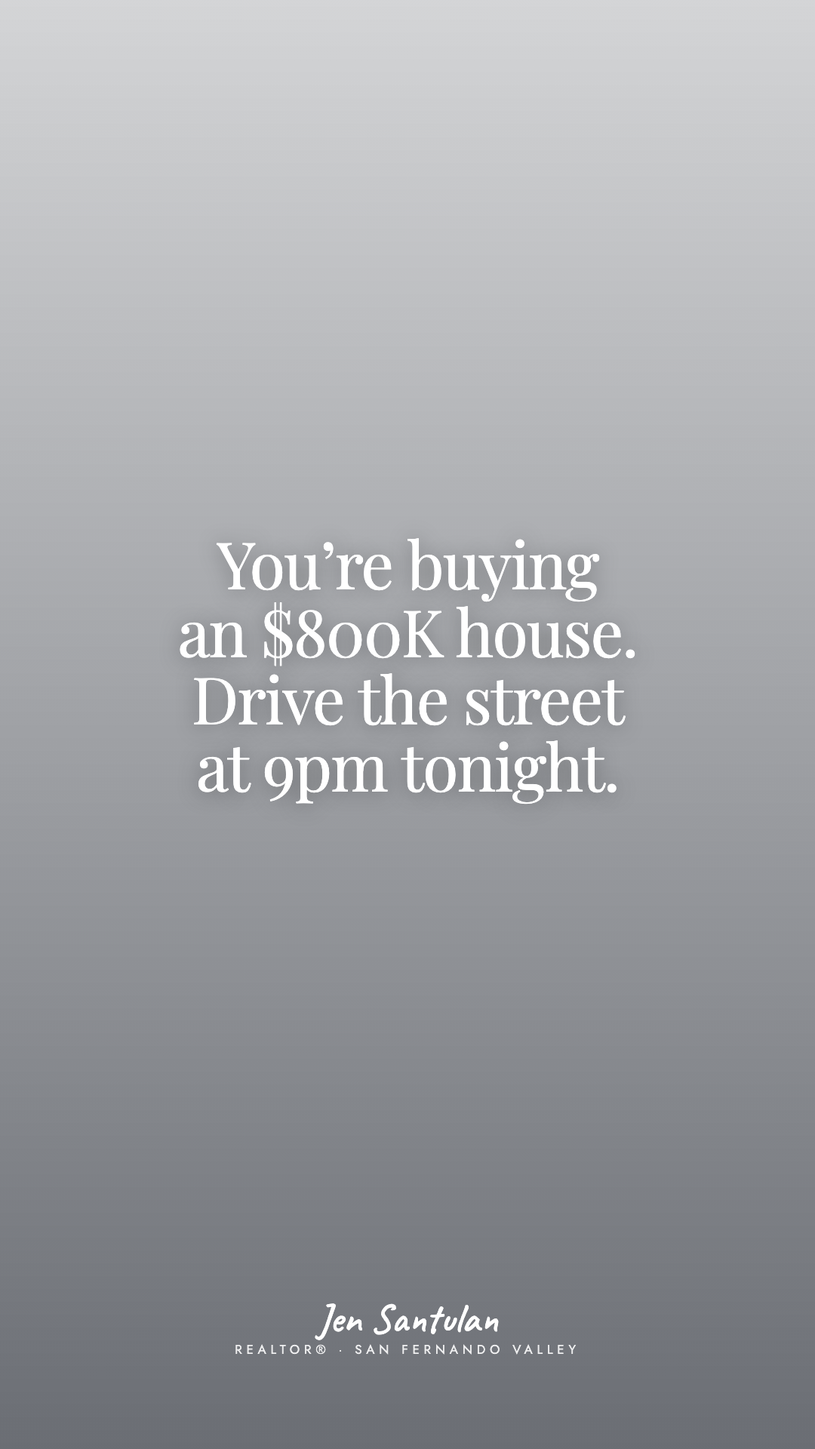
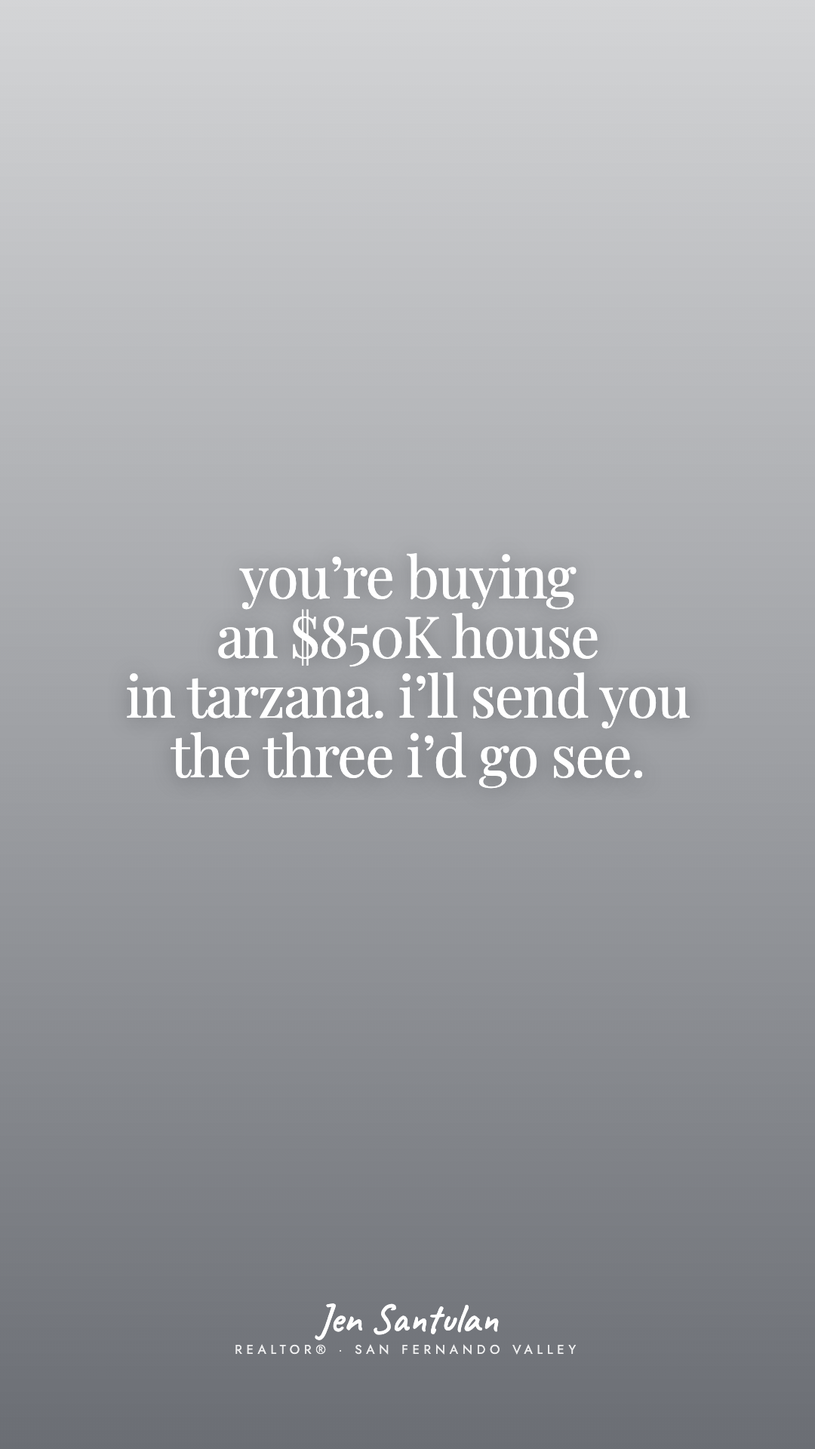
feat(jen): post 11 take 2 (Card 1, kitchens at midnight, sept 9 comps) supersedes post 01; study page gains complete copy for all five cards

Changed region(s): [[0.1528, 0.375, 0.8556, 0.5625]]

diff --git a/_active/clients/jen-listings/04-deliverables/2026-09-01-september-carousels/.reel_tmp/o1.html b/_active/clients/jen-listings/04-deliverables/2026-09-01-september-carousels/.reel_tmp/o1.html
@@ -3,7 +3,7 @@
 <style>html,body{margin:0;width:1080px;height:1920px;background:transparent;overflow:hidden}</style>
 <div style="position:absolute;inset:0;background:linear-gradient(180deg,rgba(15,20,30,.18) 0%,rgba(15,20,30,.42) 55%,rgba(15,20,30,.62) 100%);"></div>
 <div style="position:absolute;inset:0;display:flex;flex-direction:column;align-items:center;justify-content:center;gap:34px;padding:0 90px 160px;">
-  <div style="font-family: 'Playfair Display', Georgia, serif; font-size:86px;line-height:1.04;letter-spacing:-.02em;color:#fff;text-align:center;text-shadow:0 2px 28px rgba(0,0,0,.35);">You&#8217;re buying<br>an $800K house.<br>Drive the street<br>at 9pm tonight.</div>
+  <div style="font-family: 'Playfair Display', Georgia, serif; font-size:76px;line-height:1.04;letter-spacing:-.02em;color:#fff;text-align:center;text-shadow:0 2px 28px rgba(0,0,0,.35);">you&#8217;re buying<br>an $850K house<br>in tarzana. i&#8217;ll send you<br>the three i&#8217;d go see.</div>
   
 </div>
 <div style="position:absolute;left:0;right:0;bottom:120px;display:flex;flex-direction:column;align-items:center;gap:2px;">

diff --git a/_active/clients/jen-listings/04-deliverables/2026-09-01-september-carousels/.reel_tmp/o0.html b/_active/clients/jen-listings/04-deliverables/2026-09-01-september-carousels/.reel_tmp/o0.html
@@ -3,7 +3,7 @@
 <style>html,body{margin:0;width:1080px;height:1920px;background:transparent;overflow:hidden}</style>
 <div style="position:absolute;inset:0;background:linear-gradient(180deg,rgba(15,20,30,.18) 0%,rgba(15,20,30,.42) 55%,rgba(15,20,30,.62) 100%);"></div>
 <div style="position:absolute;inset:0;display:flex;flex-direction:column;align-items:center;justify-content:center;gap:34px;padding:0 90px 160px;">
-  <div style="font-family: 'Playfair Display', Georgia, serif; font-size:100px;line-height:1.04;letter-spacing:-.02em;color:#fff;text-align:center;text-shadow:0 2px 28px rgba(0,0,0,.35);">&#8220;We loved it.<br>It was so quiet.&#8221;</div>
+  <div style="font-family: 'Playfair Display', Georgia, serif; font-size:73px;line-height:1.04;letter-spacing:-.02em;color:#fff;text-align:center;text-shadow:0 2px 28px rgba(0,0,0,.35);">if you keep screenshotting<br>kitchens at midnight&#8230;</div>
   
 </div>
 <div style="position:absolute;left:0;right:0;bottom:120px;display:flex;flex-direction:column;align-items:center;gap:2px;">

diff --git a/_active/clients/jen-listings/04-deliverables/2026-09-06-engine-v2-weeks-1-2/build_weeks.py b/_active/clients/jen-listings/04-deliverables/2026-09-06-engine-v2-weeks-1-2/build_weeks.py
@@ -78,7 +78,7 @@ WEEKS = [
                 "id": "01-attract-what-850k-buys",
                 "kind": "reel",
                 "job": "attract",
-                "day": "HOLD · re-pull the three comps (FACTS.md rows 01/03 are dated sept 2; prices move) then slot tue sept 15 · 7:30am",
+                "day": "SUPERSEDED 2026-09-09 by week 2's tuesday post (11, the Card 1 rebuild with sept 9 comps); do not post",
                 "story": "first frame to stories at 7:35am with the sticker: \"send me your number\"",
                 "collab": "none (other agents' listings; never tag them)",
                 "first_comment": "the three are tarzana, lake balboa, van nuys. send me your number and i'll send the addresses.",
@@ -248,35 +248,43 @@ WEEKS = [
                 # specimen: the buyer's own sentence on screen, her reply with the stake ($800K), the reason withheld; the caption keeps the
                 # promise and previews working with her. Who-clause this week (CONTENT-MIX experiment): a household leaving an apartment,
                 # from the verbatim SFV buyer thread (repair-1/buyer-source.md), never quoted. Her photos only: Bothwell exterior + pool.
-                "id": "11-broll-it-was-so-quiet",
+                # Take 2 (2026-09-09, after Farrice's verdict on take 1: "aesthetic great, on-screen text terrible"). Rebuilt from the CA-five
+                # study's Card 1, the taste callout (WINNERS row 12, @samarnesonhome "If you love the Practical Magic house…", 67.1K):
+                # the reader's taste opens, her reply with the stake and the place is beat 2, the three real houses are the caption's payoff.
+                # Comps read on Redfin 2026-09-09 (FACTS.md); other agents' listings → neighborhood, price, specs, never the address.
+                # This absorbs the HOLD post 01 (same grammar, done right); 01 is superseded. Take 1's copy lives in git history.
+                "id": "11-broll-kitchens-at-midnight",
                 "kind": "reel",
-                "job": "connect",
+                "job": "attract",
                 "day": "tue sept 15 · 6:30pm",
-                "story": "first frame to stories at 6:35pm, no sticker; the quote is the story",
-                "collab": "none",
-                "first_comment": "tell me the street and what time you saw it. i'll tell you which drive to do first.",
+                "story": "first frame to stories at 6:35pm with the sticker: \"send me your number\"",
+                "collab": "none (other agents' listings; never tag them)",
+                "first_comment": "the three are all tarzana or right on the line. send me your number and i'll send you the addresses.",
                 "beats": [
-                    {"photo": "../../../06-system/valley-editions/photos/jen/listing-01-exterior.jpg", "line": "&#8220;We loved it.<br>It was so quiet.&#8221;", "size": 100, "secs": 4, "zoom": "in",
-                     "swap": "hers (Bothwell exterior, daylight); replace with her ordinary clip of a street when one lands in folder 02"},
-                    {"photo": "../../../06-system/valley-editions/photos/jen/listing-03-pool.jpg", "line": "You&#8217;re buying<br>an $800K house.<br>Drive the street<br>at 9pm tonight.", "size": 86, "secs": 6.5, "zoom": "out",
-                     "swap": "hers (Bothwell backyard at dusk); same clip, second beat"},
+                    {"photo": "../../../06-system/valley-editions/photos/jen/listing-04-kitchen.jpg", "line": "if you keep screenshotting<br>kitchens at midnight&#8230;", "size": 92, "secs": 4, "zoom": "in",
+                     "swap": "hers (Bothwell kitchen: the kind of kitchen people screenshot); her ordinary kitchen clip when one lands in folder 02"},
+                    {"photo": "../../../06-system/valley-editions/photos/jen/listing-01-exterior.jpg", "line": "you&#8217;re buying<br>an $850K house<br>in tarzana. i&#8217;ll send you<br>the three i&#8217;d go see.", "size": 86, "secs": 6.5, "zoom": "out",
+                     "swap": "hers (Bothwell exterior, daylight); a real front door from any of her shoots"},
                 ],
                 "caption": (
-                    "you saw it at 1pm on a saturday. sun out, street empty, everyone at the beach or at costco. of course it was quiet.\n"
+                    "you keep screenshotting the finished ones. white oak, the big island, the light at 4pm. you send them to your person at midnight and neither of you says anything.\n"
                     "\n"
-                    "go back at 9 on a tuesday. don’t get out of the car. windows down.\n"
+                    "so here’s what $850K to $900K actually buys in tarzana this week. three real houses, on the market right now, none of them mine:\n"
                     "\n"
-                    "who’s home. is there anywhere to park. is somebody’s speaker going. is there a dog two doors down who has opinions about your car.\n"
+                    "$899,999 · tarzana. 3 bed, 2 bath, 1,121 sq ft. it looks out over the country club.\n"
+                    "$859,900 · tarzana. 3 bed, 1.5 bath, 1,136 sq ft on a 7,296 sq ft lot. it was $869,000 last week.\n"
+                    "$869,000 · reseda, right on the tarzana line. 3 bed, 2 bath, 1,332 sq ft.\n"
                     "\n"
-                    "then once at 7am, because the 101 sounds different at 7am. and once at 3pm, so you know which way the living room faces before a valley august tells you.\n"
+                    "none of them is the screenshot. all three are a front door at a real number.\n"
                     "\n"
-                    "if the whole reason you’re leaving the apartment is the people downstairs... the 9pm drive is the one that matters. tuesday nights come with the house.\n"
+                    "sometimes the budget and the wish list just need a little… meeting in the middle.\n"
                     "\n"
-                    "i drive it myself before we write the offer. then we compare notes. sometimes the notes say “keep looking,” and that’s fine. that’s what the drive is for.\n"
+                    "send this to your person. or send me your number, buying or selling, and i’ll send you the three addresses and what i’d check first at each one.\n"
                     "\n"
-                    "tell me the street and what time you saw it. i’ll tell you which drive to do first."
+                    "prices from redfin, sept 9, 2026. they move… one of these already did.\n"
+                    "#tarzana #reseda #sanfernandovalley #SFV"
                 ),
-                "reply": "a street and a time → her own words the same evening (which drive first, and what to listen for). an address → saved reply 1. 'we did this' or 'same' → ask what they heard.",
+                "reply": "a number → saved reply 3 (looking / a number), then the three addresses in her DM. an address → saved reply 1. 'same' or a screenshot → her words: 'send me the number and i'll make the folder real.'",
             },
             {
                 "id": "04-attract-900k-two-zips",

diff --git a/execution/jen_os_page.py b/execution/jen_os_page.py
@@ -52,13 +52,13 @@ SAVED = (WEEKS / "week-of-2026-09-21" / "saved-replies.txt").read_text().strip()
 POSTS = [
  ("week-of-2026-09-07", "Week 1 · in Drive 04 · wed the specimen, thu just breathe, sat the code-words post · comps and Bothwell on HOLD", [
    ("00-broll-one-more-question", "connect", "reel · 10.5 s · her photos", "wed sept 9 · 6:30pm · FIRST POST", "“Sorry, one more question…” / You’re buying an $800K house. You can ask me whatever you need.", "00-broll-one-more-question", ["listing-02-living (hers)","listing-04-kitchen (hers)"], "a question or a screenshot → answer it in her own words the same evening (this post IS the promise) · 'same' → saved reply 4 shape"),
-   ("01-attract-what-850k-buys", "attract", "reel · 25.5 s", "HOLD · re-pull comps, then tue sept 15 · 7:30am", "you keep saving the finished ones.", "01-attract-what-850k-buys", ["sunlight-through-window-floor-00","valley-street-01","california-bungalow-00","suburban-neighborhood-aerial-02","front-door-house-00","jen-porch-vannuys"], "a number → saved reply 3 · an address → saved reply 1 · 'same' → her words"),
+   ("01-attract-what-850k-buys", "attract", "reel · 25.5 s", "SUPERSEDED by week 2's tuesday post (same grammar, sept 9 comps); do not post", "you keep saving the finished ones.", "01-attract-what-850k-buys", ["sunlight-through-window-floor-00","valley-street-01","california-bungalow-00","suburban-neighborhood-aerial-02","front-door-house-00","jen-porch-vannuys"], "a number → saved reply 3 · an address → saved reply 1 · 'same' → her words"),
    ("02-connect-just-breathe", "connect", "card · 3 slides · her photos", "thu sept 10 · 6:30pm", "just breathe.", "02-connect-just-breathe-1", ["listing-03-pool (hers)","listing-02-living (hers)","jen-headshot-studio (hers, no type)"], "a number → saved reply 3 · 'same' → her words: 'send me the number when you're up'"),
    ("10-position-code-words", "position", "carousel · 6 slides · approved 8/10 (Sept 7)", "sat sept 12 · 9:00am · in Drive 04", "“cozy.” “original condition.” “great potential.” / realtor code words, the Valley edition.", "10-position-code-words-1", ["listing-01-exterior (hers)","kitchen (approved plate)","street2 (approved plate)","listing-02-living (hers)","101 (approved plate)","coffee (approved plate)","listing-04-kitchen (hers)"], "a screenshot or a listing line → her own words the same evening (what it usually means + the one question to ask) · 'DECODE' in the comments (slide 6 still says it) → DM the four caption lines · an address → saved reply 1"),
    ("03-convert-5421-bothwell", "convert", "reel · 22 s", "HOLD until Jen confirms Bothwell is hers to post (was sat sept 12)", "Most New Construction in the Valley Is One Big Box.", "03-convert-5421-bothwell", ["sfv-aerial-nara","california-bungalow-00","sunlight-through-window-floor-00","front-door-house-00","jen-frontdoor"], "a showing request → her own words, same evening · collab tag @myhousesellers"),
  ]),
  ("week-of-2026-09-14", "Week 2 · the new tuesday reel awaits your verdict; no Drive folder until then", [
-   ("11-broll-it-was-so-quiet", "connect", "reel · 10.5 s · her photos · built on WINNERS #2 (Carli Gerber, 212× median) in the specimen's grammar", "tue sept 15 · 6:30pm · VERDICT PENDING", "“We loved it. It was so quiet.” / You’re buying an $800K house. Drive the street at 9pm tonight.", "11-broll-it-was-so-quiet", ["listing-01-exterior (hers)","listing-03-pool (hers)"], "a street and a time → her own words the same evening (which drive first, what to listen for) · an address → saved reply 1 · 'same' → ask what they heard"),
+   ("11-broll-kitchens-at-midnight", "attract", "reel · 10.5 s · her photos · take 2, built on Card 1 of the CA-five study (WINNERS #12, the taste callout); absorbs post 01", "tue sept 15 · 6:30pm · TAKE 2 · VERDICT PENDING", "if you keep screenshotting kitchens at midnight… / you’re buying an $850K house in tarzana. i’ll send you the three i’d go see.", "11-broll-kitchens-at-midnight", ["listing-04-kitchen (hers)","listing-01-exterior (hers)"], "a number → saved reply 3, then the three addresses in her DM · an address → saved reply 1 · 'same' or a screenshot → 'send me the number and i'll make the folder real'"),
    ("04-attract-900k-two-zips", "attract", "reel · 23 s", "HOLD · re-pull the two comps (dated sept 2), then slot", "$900K in sherman oaks. $900K in van nuys. same week.", "04-attract-900k-two-zips", ["vannuys-blvd-2024","california-bungalow-00","front-door-house-00","suburban-neighborhood-aerial-02","jen-porch-vannuys"], "a zip or a number → saved reply 3 · an address → saved reply 1"),
    ("05-position-insurance-before-the-offer", "position", "reel · 18.5 s", "thu sept 17 · 6:30pm", "fully approved... and the insurance quote still moves your payment.", "05-position-insurance-before-the-offer", ["vannuys-blvd-2024","california-bungalow-00","house-key-lock-00","jen-porch-vannuys"], "an address → saved reply 1, then 2 the next day"),
    ("06-position-tarzana-median-sellers", "position", "card · 3 slides", "sat sept 19 · 9:00am", "tarzana sold for 14.5% less this july than last july.", "06-position-tarzana-median-sellers-1", ["sfv-aerial-nara","valley-street-01","jen-frontdoor"], "a street or 'what's mine worth' → saved reply 2"),

diff --git a/_active/clients/jen-listings/04-deliverables/2026-09-09-ca-five-structure-study/STUDY.md b/_active/clients/jen-listings/04-deliverables/2026-09-09-ca-five-structure-study/STUDY.md
@@ -75,6 +75,64 @@ Format: three-slide photo card or a short reel. Hook formula: a dated event with
 **Card 5 · POV, the life the house makes possible** (from @takesunset `DcUVpSFhjnD`, and Jen's own budget-vs-wishlist outlier)
 Format: reel or photo-motion over a backyard or kitchen. Hook formula: "POV: [a scene from the life you want]"; the listing is beat 2. Beat map: the POV line → three shots of that life → address and price → the showing. CTA: a real next step (a showing time, "DM me for saturday"). Jen ICP angle: her Convert slot for 5421 Bothwell and future listings, so the address stops being the hook and the Saturday afternoon becomes it.
 
+## 6. Complete copy for each card (added 2026-09-09 evening, on Farrice's ask: "an asset to send to her so she can make the content right now")
+
+Every card below is a full post: on-screen beats for the reel baseline, the caption as it posts, the story slide, the first comment, the reply routing, and the facts behind it. One pen, her register, no bank line stamped (each of her verbatim lines appears at most once across the five). Renders follow his verdict; the copy is ready now.
+
+**Card 1 · the taste callout · rendered as week 2's tuesday post (11, take 2) · attract**
+
+On screen, beat 1 (her Bothwell kitchen, 4 s, zoom in): if you keep screenshotting kitchens at midnight…
+
+On screen, beat 2 (her Bothwell exterior, 6.5 s, zoom out): you're buying an $850K house in tarzana. i'll send you the three i'd go see.
+
+Caption: you keep screenshotting the finished ones. white oak, the big island, the light at 4pm. you send them to your person at midnight and neither of you says anything. / so here's what $850K to $900K actually buys in tarzana this week. three real houses, on the market right now, none of them mine: / $899,999 · tarzana. 3 bed, 2 bath, 1,121 sq ft. it looks out over the country club. / $859,900 · tarzana. 3 bed, 1.5 bath, 1,136 sq ft on a 7,296 sq ft lot. it was $869,000 last week. / $869,000 · reseda, right on the tarzana line. 3 bed, 2 bath, 1,332 sq ft. / none of them is the screenshot. all three are a front door at a real number. / sometimes the budget and the wish list just need a little… meeting in the middle. / send this to your person. or send me your number, buying or selling, and i'll send you the three addresses and what i'd check first at each one. / prices from redfin, sept 9, 2026. they move… one of these already did. / #tarzana #reseda #sanfernandovalley #SFV
+
+Story: first frame at 6:35pm with the sticker "send me your number." First comment: the three are all tarzana or right on the line. send me your number and i'll send you the addresses. Replies: a number → saved reply 3, then the three addresses in her DM; an address → saved reply 1; "same" or a screenshot → "send me the number and i'll make the folder real." Facts: FACTS.md 2026-09-09 evening section (Redfin, read that day; re-pull the morning of Sept 15). Jen-seat lines: the midnight-screenshot scene, "i'll send you the three i'd go see."
+
+**Card 2 · the opinion, house as evidence · connect · a thursday 6:30pm**
+
+On screen, one card for the whole reel (her Bothwell pool at dusk, sky crop, 10 s, zoom in; a Valley-view plate replaces it once the cost gate clears): 10/10 would take a valley view over the beach >
+
+Caption: people assume i'm chasing the beach house. i've sold an $80 million home and it was a regular three-bedroom that happened to be sitting on malibu beach. beautiful. not my thing. / what gets me is warm, soft, modern… and a view. the valley at night, or the downtown skyline from the right street. i am a sucker for a view of skylines. / the most impressive home i've seen wasn't the biggest one. it was the one where all i could say was "i want something like this in my forever home." / that's the house i'm looking for when i'm looking for you. the one you'd say that in. / beach or valley… which one is yours? send this to the person who'd argue with you about it. / and if there's a view you can't stop thinking about, buying or selling, send it to me. a street, a photo, a zip. i'll tell you what it costs to wake up to it. / #sanfernandovalley #SFV #valleyrealestate #valleyviews
+
+Story: the card to stories at 6:35pm with the poll sticker "beach / valley." First comment: valley. every time. tell me yours. Replies: a view, a street, or a zip → saved reply 3 shape (the number and the zip), then what a view street costs; "beach" → her words, one line, no pitch. Facts: HERS, voice memo 5 (the $80M house, "sucker for a view of skylines," "i want something like this in my forever home"); Jen-seat: "$80 million" on a frame or in a caption (her story, told to say price isn't the thing; if she winces, "i've been in the $80 million houses"), "the house i'm looking for when i'm looking for you." Source in `connect-posts-01/COPY.md` 04.
+
+**Card 3 · the question you've driven past · attract · a tuesday 6:30pm (the week after Card 1)**
+
+On screen, beat 1 (a Valley street or canyon photo of hers when one lands in folder 02; until then the cleared-pool valley street, 4 s, zoom in): you've driven past this trailhead a hundred times.
+
+On screen, beat 2 (her Bothwell exterior at dusk, 6.5 s, zoom out): caballero canyon. free. no permit. five miles. and the streets around it come with one question.
+
+Caption: top of reseda blvd, where it runs out of houses. that's the trailhead. caballero canyon… free, no permit, about five and a half miles if you do the whole loop, and you've driven past the sign a hundred times on the way to something else. / the streets around it are some of the prettiest in tarzana. hillside, canyon, quiet. they also come with one question the flat part of the valley doesn't ask: what does the insurance quote look like? / in the hills i get that quote before we write the offer, not once we're in escrow with the clock running. on october 15 the state's backup fire policy goes up 29.1% on average, weighted to wildfire risk. the day your policy starts decides your rate. / none of that makes a canyon street a bad idea. it makes it a street you write differently. / if there's a hillside street you keep driving, buying or selling, send me the street. i'll tell you what the quote looks like before you fall for the view. / trail facts: la county trails, read sept 2, 2026. insurance: california dept of insurance, effective oct 15, 2026. / #tarzana #caballerocanyon #sanfernandovalley #SFV
+
+Story: first frame at 6:35pm with the question sticker "which valley street do you keep driving?" First comment: the trailhead is at the top of reseda blvd. the question is in the caption. Replies: a street → saved reply 1, then the insurance note in her words; "i hike it" → ask which street they park on. Facts: Caballero Canyon Trail, trailhead 4047 Reseda Blvd, free, no permit, main loop ~5.5 mi, Marvin Braude Mulholland Gateway Park (RESEARCH-PACK §1, VERIFIED 2026-09-02); FAIR Plan +29.1% average effective Oct 15, 2026, weighted to wildfire risk, start date sets the rate (RESEARCH-PACK §5, VERIFIED). Jen-seat: "i get that quote before we write the offer" (also in post 05; she must confirm it is her practice). LIKELY, verify before render: that Reseda Blvd ends at the park gate ("where it runs out of houses"); if it does not, the line becomes "at the top of reseda blvd."
+
+**Card 4 · news to your house · position · thursday sept 17, 6:30pm (post 05, close rewritten)**
+
+On screen, beat 1 (4.5 s, zoom in): fully approved… and the insurance quote still moves your payment.
+
+On screen, beat 2 (4.5 s, zoom out): in the hills, i get the quote before we write the offer.
+
+On screen, beat 3 (4.5 s, zoom in): october 15: the state's backup fire policy goes up 29.1%.
+
+On screen, beat 4 (her at a front door, 5 s, zoom in): send me the street. i'll tell you which paper i'd read first.
+
+Caption: the insurance quote now comes before the offer, not once we're in escrow with the clock already running. / on october 15, 2026 the california FAIR plan rises 29.1% on average. it's the state's backup fire policy, what you get when no regular company will cover the house. the increase is weighted to wildfire risk… hillside and canyon homes can see far more. / the day your policy starts decides the rate. start before the 15th and you generally keep today's rate for the whole term. / valley floor? most homes still get a regular company. / selling a hillside home this fall? the same quote is the first thing your buyer's lender will ask about. worth knowing before the sign goes up. / approved and insured are two different yeses. / send me the street, buying or selling. or just the street name, if that's as far as you've gotten. i'll tell you which paper i'd read first. / source: california dept of insurance, oct 15, 2026. / #SFV #sanfernandovalleyrealtor #losangelesrealestate #shermanoaks #woodlandhills
+
+Story: first frame at 6:35pm, the date sticker "oct 15." First comment: if your policy renews after oct 15, read the renewal letter this week. send me the street if you want a second pair of eyes. Replies: an address → saved reply 1, then 2 the next day; "is this true for my house" → saved reply 2 shape. Facts: FACTS.md row 05 (CDI, VERIFIED). What changed from the shipped post 05: the close no longer carries "my DMs are open" or the protect-you line (the stamp that failed week 2's lint); the ask is one sentence in her words.
+
+**Card 5 · POV, the life the house makes possible · convert · HOLD until Jen confirms 5421 Bothwell is hers to post**
+
+On screen, beat 1 (her Bothwell pool at dusk, 4 s, zoom in, Title Case for the luxury register): POV: Your House Is Where Everyone Watches the Game.
+
+On screen, beat 2 (her Bothwell living room, pocket doors, 4.5 s, zoom out): The Living Room Opens to the Pool. The Court Is Past the Pool.
+
+On screen, beat 3 (her Bothwell exterior, 5 s, zoom in): 5421 Bothwell Rd. $5,695,000. Private Showings This Weekend.
+
+Caption: POV: your house is where everyone watches the game. the theater for the fourth quarter, the half court for halftime, the pocket doors open to the pool the whole time. / 5421 bothwell rd, tarzana. three buildings on one lot: a 5,468 sq ft main house, an 882 sq ft guest house with its own kitchen, and a 238 sq ft rec room. 6,588 sq ft in total. / white oak floors and real white oak cabinetry. taj mahal quartzite in the kitchen, thermador and sub-zero. venetian plaster in the office, the theater, and the primary bath. eleven-foot ceilings downstairs. / $5,695,000. co-listed with marty azoulay, equity union. / private showings this weekend. DM me and we'll set a time. / #tarzana #newconstruction #sanfernandovalley #luxuryrealestate #losangelesrealestate
+
+Story: first frame at 9:05am, no sticker; the address card is the story. Collab: invite @myhousesellers (team listing). First comment: half court, theater, pool, guest house with its own kitchen. showings saturday and sunday, DM me. Replies: a showing request → her own words, same evening. Facts: FACTS.md row 03 (her spec sheet, VERIFIED; price and status from her MLS before it posts). What changed from the shipped post 03: the POV life line replaces the "one big box" thesis as beat 1; the address stays beat 3.
+
 ## What this says about post 11
 
 Every on-screen line that wins here is a feeling, a wish, an opinion, or a question in first person. None is an instruction. Post 11's beat 1 reported ("it was so quiet"), and beat 2 instructed ("drive the street at 9pm"). The next take starts from Card 1 or Card 2, with the buyer's own sentence and her own opinion, and the drive-the-street material moves into the caption where it was always meant to live.

diff --git a/_active/clients/jen-listings/04-deliverables/2026-09-06-engine-v2-weeks-1-2/COPY-weeks-1-2.md b/_active/clients/jen-listings/04-deliverables/2026-09-06-engine-v2-weeks-1-2/COPY-weeks-1-2.md
@@ -31,7 +31,7 @@ and if i explain something and you’re still lost, please tell me. i can try an
 *reply routing: a question or a screenshot arrives → answer it in her own words the same evening (this post IS the promise). 'same' → saved reply 4 shape, then ask what they're looking at.*
 
 
-### 01-attract-what-850k-buys · reel · attract · HOLD · re-pull the three comps (FACTS.md rows 01/03 are dated sept 2; prices move) then slot tue sept 15 · 7:30am
+### 01-attract-what-850k-buys · reel · attract · SUPERSEDED 2026-09-09 by week 2's tuesday post (11, the Card 1 rebuild with sept 9 comps); do not post
 
 - beat 1: you keep saving the finished ones.
 - beat 2: so. what $850K actually buys in the valley this week.
@@ -148,28 +148,31 @@ Jennifer Santulan · Equity Union · DRE #01914509
 reply here if a line isn't you 🤍
 
 
-### 11-broll-it-was-so-quiet · reel · connect · tue sept 15 · 6:30pm
+### 11-broll-kitchens-at-midnight · reel · attract · tue sept 15 · 6:30pm
 
-- beat 1: “We loved it. It was so quiet.”
-- beat 2: You’re buying an $800K house. Drive the street at 9pm tonight.
+- beat 1: if you keep screenshotting kitchens at midnight…
+- beat 2: you’re buying an $850K house in tarzana. i’ll send you the three i’d go see.
 
 **caption**
 
-you saw it at 1pm on a saturday. sun out, street empty, everyone at the beach or at costco. of course it was quiet.
+you keep screenshotting the finished ones. white oak, the big island, the light at 4pm. you send them to your person at midnight and neither of you says anything.
 
-go back at 9 on a tuesday. don’t get out of the car. windows down.
+so here’s what $850K to $900K actually buys in tarzana this week. three real houses, on the market right now, none of them mine:
 
-who’s home. is there anywhere to park. is somebody’s speaker going. is there a dog two doors down who has opinions about your car.
+$899,999 · tarzana. 3 bed, 2 bath, 1,121 sq ft. it looks out over the country club.
+$859,900 · tarzana. 3 bed, 1.5 bath, 1,136 sq ft on a 7,296 sq ft lot. it was $869,000 last week.
+$869,000 · reseda, right on the tarzana line. 3 bed, 2 bath, 1,332 sq ft.
 
-then once at 7am, because the 101 sounds different at 7am. and once at 3pm, so you know which way the living room faces before a valley august tells you.
+none of them is the screenshot. all three are a front door at a real number.
 
-if the whole reason you’re leaving the apartment is the people downstairs... the 9pm drive is the one that matters. tuesday nights come with the house.
+sometimes the budget and the wish list just need a little… meeting in the middle.
 
-i drive it myself before we write the offer. then we compare notes. sometimes the notes say “keep looking,” and that’s fine. that’s what the drive is for.
+send this to your person. or send me your number, buying or selling, and i’ll send you the three addresses and what i’d check first at each one.
 
-tell me the street and what time you saw it. i’ll tell you which drive to do first.
+prices from redfin, sept 9, 2026. they move… one of these already did.
+#tarzana #reseda #sanfernandovalley #SFV
 
-*reply routing: a street and a time → her own words the same evening (which drive first, and what to listen for). an address → saved reply 1. 'we did this' or 'same' → ask what they heard.*
+*reply routing: a number → saved reply 3 (looking / a number), then the three addresses in her DM. an address → saved reply 1. 'same' or a screenshot → her words: 'send me the number and i'll make the folder real.'*
 
 
 ### 04-attract-900k-two-zips · reel · attract · HOLD · re-pull the two comps (FACTS.md rows 04 are dated sept 2; prices move) then slot

diff --git a/_active/clients/jen-listings/04-deliverables/2026-09-06-engine-v2-weeks-1-2/FACTS.md b/_active/clients/jen-listings/04-deliverables/2026-09-06-engine-v2-weeks-1-2/FACTS.md
@@ -67,5 +67,23 @@ Every number in the nine posts, where it came from, and what to re-check on send
 | 11 B-roll | "i drive it myself before we write the offer. then we compare notes." · "sometimes the notes say keep looking" | Jen-seat (her practice, our words) | drafted 2026-09-09 | Jen thumbs-up before tue sept 15 |
 | 11 B-roll | "you saw it at 1pm on a saturday… everyone at the beach or at costco" | Jen-seat scene | drafted 2026-09-09 | Jen thumbs-up |
 
+## 2026-09-09 (evening) · post 11 take 2, "kitchens at midnight" (Card 1 rebuild; absorbs post 01)
+
+Read on Redfin 2026-09-09 (Tarzana neighborhood page, house, $800K–$950K; 4 in Tarzana proper + nearby). Other agents' listings: neighborhood, price, specs only; addresses go out in her DM.
+
+| used in | claim | label | source | re-check |
+|---|---|---|---|---|
+| 11 caption | 18276 Rosita, Tarzana 91356 · $899,999 · 3 bd / 2 ba · 1,121 sq ft · "overlooking El Caballero Country Club" | VERIFIED | Redfin Tarzana filtered search, read 2026-09-09 | still active Sept 14? |
+| 11 caption | 6324 Tampa, Tarzana 91335 · $859,900 · 3 bd / 1.5 ba · 1,136 sq ft · 7,296 sq ft lot (lot from the Sept 2 row) · was $869,000 on Sept 2 | VERIFIED (price change observed between the two reads) | same; Sept 2 row above | still active Sept 14? price again? |
+| 11 caption | 6714 Rhea, Reseda 91335 · $869,000 · 3 bd / 2 ba · 1,332 sq ft (shows in the Tarzana search as nearby; "right on the tarzana line" is the honest label) | VERIFIED | same | still active Sept 14? |
+| 11 caption | "$850K to $900K" band, "this week" | VERIFIED (the three above) | | re-pull the morning of Sept 15 |
+| 11 on screen | "$850K house in tarzana" | the band (ENGINE-V2 §1) + the three above | | none |
+| 11 caption | "sometimes the budget and the wish list just need a little… meeting in the middle." | HERS (her 2026-07-21 caption, verbatim; not a stamp-bank line; drawn once this week) | jen-real-voice-profile.md | none |
+| 11 caption | "you send them to your person at midnight and neither of you says anything" · on screen "if you keep screenshotting kitchens at midnight…" | Jen-seat scene (the midnight-screenshot behavior was already a flagged Jen-seat line in post 01) | | Jen thumbs-up |
+| 11 on screen | "i'll send you the three i'd go see" | Jen-seat (her offer, our words; matches saved reply 3's shape) | | Jen thumbs-up |
+| not used | 6319 Aura, Tarzana · $925,000 · 3/1.5 · 1,435 (Equity Union, her brokerage, not hers) · 18811 Topham, Reseda · $899,000 · 4/4 · 2,108 (gated) · 6521 Baird · 6616 Yolanda · 19541 Victory · 20146 Hartland (Winnetka, $849,000) · 6657 Sylvia | banked, VERIFIED 2026-09-09 | same page | Aura: ask before use |
+
+Take 1 of post 11 ("we loved it. it was so quiet." → "drive the street at 9pm tonight") was rejected by Farrice 2026-09-09; its rows above stay as the record. Two takes on one post: if this one fails, back to the input, never a third.
+
 Realism gate (ENGINE-V2 §3), both topics: she would say it in these words (yes / yes) · a stranger can act on it at their stage (a screenshot of a listing line; a drive down a street with only an address: yes / yes) · every fact dated and sourced or hers (yes / yes). Passed 2, killed 0.
 

diff --git a/_active/clients/jen-listings/04-deliverables/2026-09-06-engine-v2-weeks-1-2/week-of-2026-09-14/COPY.md b/_active/clients/jen-listings/04-deliverables/2026-09-06-engine-v2-weeks-1-2/week-of-2026-09-14/COPY.md
@@ -6,28 +6,31 @@
 reply here if a line isn't you 🤍
 
 
-### 11-broll-it-was-so-quiet · reel · connect · tue sept 15 · 6:30pm
+### 11-broll-kitchens-at-midnight · reel · attract · tue sept 15 · 6:30pm
 
-- beat 1: “We loved it. It was so quiet.”
-- beat 2: You’re buying an $800K house. Drive the street at 9pm tonight.
+- beat 1: if you keep screenshotting kitchens at midnight…
+- beat 2: you’re buying an $850K house in tarzana. i’ll send you the three i’d go see.
 
 **caption**
 
-you saw it at 1pm on a saturday. sun out, street empty, everyone at the beach or at costco. of course it was quiet.
+you keep screenshotting the finished ones. white oak, the big island, the light at 4pm. you send them to your person at midnight and neither of you says anything.
 
-go back at 9 on a tuesday. don’t get out of the car. windows down.
+so here’s what $850K to $900K actually buys in tarzana this week. three real houses, on the market right now, none of them mine:
 
-who’s home. is there anywhere to park. is somebody’s speaker going. is there a dog two doors down who has opinions about your car.
+$899,999 · tarzana. 3 bed, 2 bath, 1,121 sq ft. it looks out over the country club.
+$859,900 · tarzana. 3 bed, 1.5 bath, 1,136 sq ft on a 7,296 sq ft lot. it was $869,000 last week.
+$869,000 · reseda, right on the tarzana line. 3 bed, 2 bath, 1,332 sq ft.
 
-then once at 7am, because the 101 sounds different at 7am. and once at 3pm, so you know which way the living room faces before a valley august tells you.
+none of them is the screenshot. all three are a front door at a real number.
 
-if the whole reason you’re leaving the apartment is the people downstairs... the 9pm drive is the one that matters. tuesday nights come with the house.
+sometimes the budget and the wish list just need a little… meeting in the middle.
 
-i drive it myself before we write the offer. then we compare notes. sometimes the notes say “keep looking,” and that’s fine. that’s what the drive is for.
+send this to your person. or send me your number, buying or selling, and i’ll send you the three addresses and what i’d check first at each one.
 
-tell me the street and what time you saw it. i’ll tell you which drive to do first.
+prices from redfin, sept 9, 2026. they move… one of these already did.
+#tarzana #reseda #sanfernandovalley #SFV
 
-*reply routing: a street and a time → her own words the same evening (which drive first, and what to listen for). an address → saved reply 1. 'we did this' or 'same' → ask what they heard.*
+*reply routing: a number → saved reply 3 (looking / a number), then the three addresses in her DM. an address → saved reply 1. 'same' or a screenshot → her words: 'send me the number and i'll make the folder real.'*
 
 
 ### 04-attract-900k-two-zips · reel · attract · HOLD · re-pull the two comps (FACTS.md rows 04 are dated sept 2; prices move) then slot

diff --git a/_active/clients/jen-listings/04-deliverables/2026-09-06-engine-v2-weeks-1-2/PHOTO-SWAP.md b/_active/clients/jen-listings/04-deliverables/2026-09-06-engine-v2-weeks-1-2/PHOTO-SWAP.md
@@ -20,8 +20,8 @@ Every frame below is a placeholder from the cleared pool. When her shoots land i
 | week-of-2026-09-07 | 03-convert-5421-bothwell.mp4 · beat 3 | `sunlight-through-window-floor-00.jpg` | Bothwell living room, pocket doors open |
 | week-of-2026-09-07 | 03-convert-5421-bothwell.mp4 · beat 4 | `front-door-house-00.jpg` | the Bothwell ADU exterior or its kitchen |
 | week-of-2026-09-07 | 03-convert-5421-bothwell.mp4 · beat 5 | `jen-frontdoor.jpg` | her at the Bothwell front door (folder 01 or 03) |
-| week-of-2026-09-14 | 11-broll-it-was-so-quiet.mp4 · beat 1 | `../../../06-system/valley-editions/photos/jen/listing-01-exterior.jpg` | hers (Bothwell exterior, daylight); replace with her ordinary clip of a street when one lands in folder 02 |
-| week-of-2026-09-14 | 11-broll-it-was-so-quiet.mp4 · beat 2 | `../../../06-system/valley-editions/photos/jen/listing-03-pool.jpg` | hers (Bothwell backyard at dusk); same clip, second beat |
+| week-of-2026-09-14 | 11-broll-kitchens-at-midnight.mp4 · beat 1 | `../../../06-system/valley-editions/photos/jen/listing-04-kitchen.jpg` | hers (Bothwell kitchen: the kind of kitchen people screenshot); her ordinary kitchen clip when one lands in folder 02 |
+| week-of-2026-09-14 | 11-broll-kitchens-at-midnight.mp4 · beat 2 | `../../../06-system/valley-editions/photos/jen/listing-01-exterior.jpg` | hers (Bothwell exterior, daylight); a real front door from any of her shoots |
 | week-of-2026-09-14 | 04-attract-900k-two-zips.mp4 · beat 1 | `vannuys-blvd-2024.jpg` | a wide valley frame from the drive (folder 02) or a drone frame (01) |
 | week-of-2026-09-14 | 04-attract-900k-two-zips.mp4 · beat 2 | `california-bungalow-00.jpg` | a small cottage exterior from any shoot |
 | week-of-2026-09-14 | 04-attract-900k-two-zips.mp4 · beat 3 | `front-door-house-00.jpg` | a front elevation from a listing shoot |

diff --git a/_active/clients/jen-listings/04-deliverables/2026-09-06-engine-v2-weeks-1-2/week-of-2026-09-07/COPY.md b/_active/clients/jen-listings/04-deliverables/2026-09-06-engine-v2-weeks-1-2/week-of-2026-09-07/COPY.md
@@ -28,7 +28,7 @@ and if i explain something and you’re still lost, please tell me. i can try an
 *reply routing: a question or a screenshot arrives → answer it in her own words the same evening (this post IS the promise). 'same' → saved reply 4 shape, then ask what they're looking at.*
 
 
-### 01-attract-what-850k-buys · reel · attract · HOLD · re-pull the three comps (FACTS.md rows 01/03 are dated sept 2; prices move) then slot tue sept 15 · 7:30am
+### 01-attract-what-850k-buys · reel · attract · SUPERSEDED 2026-09-09 by week 2's tuesday post (11, the Card 1 rebuild with sept 9 comps); do not post
 
 - beat 1: you keep saving the finished ones.
 - beat 2: so. what $850K actually buys in the valley this week.
